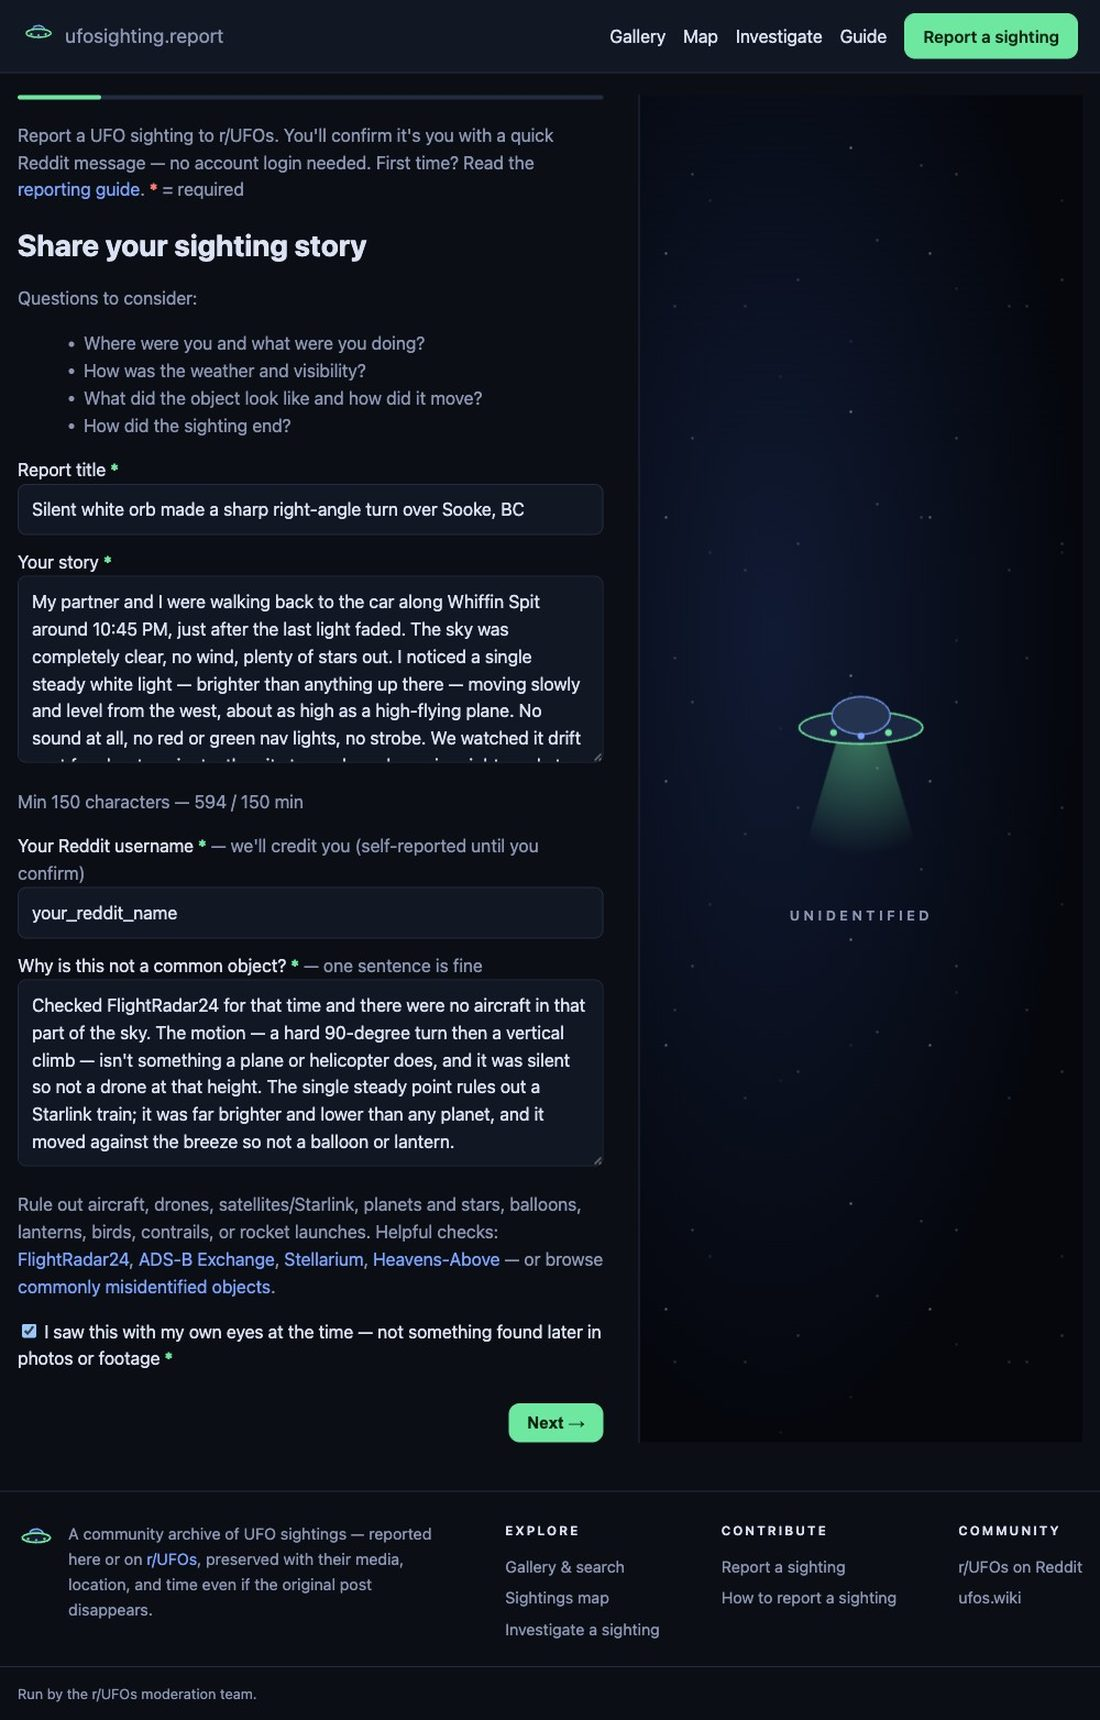
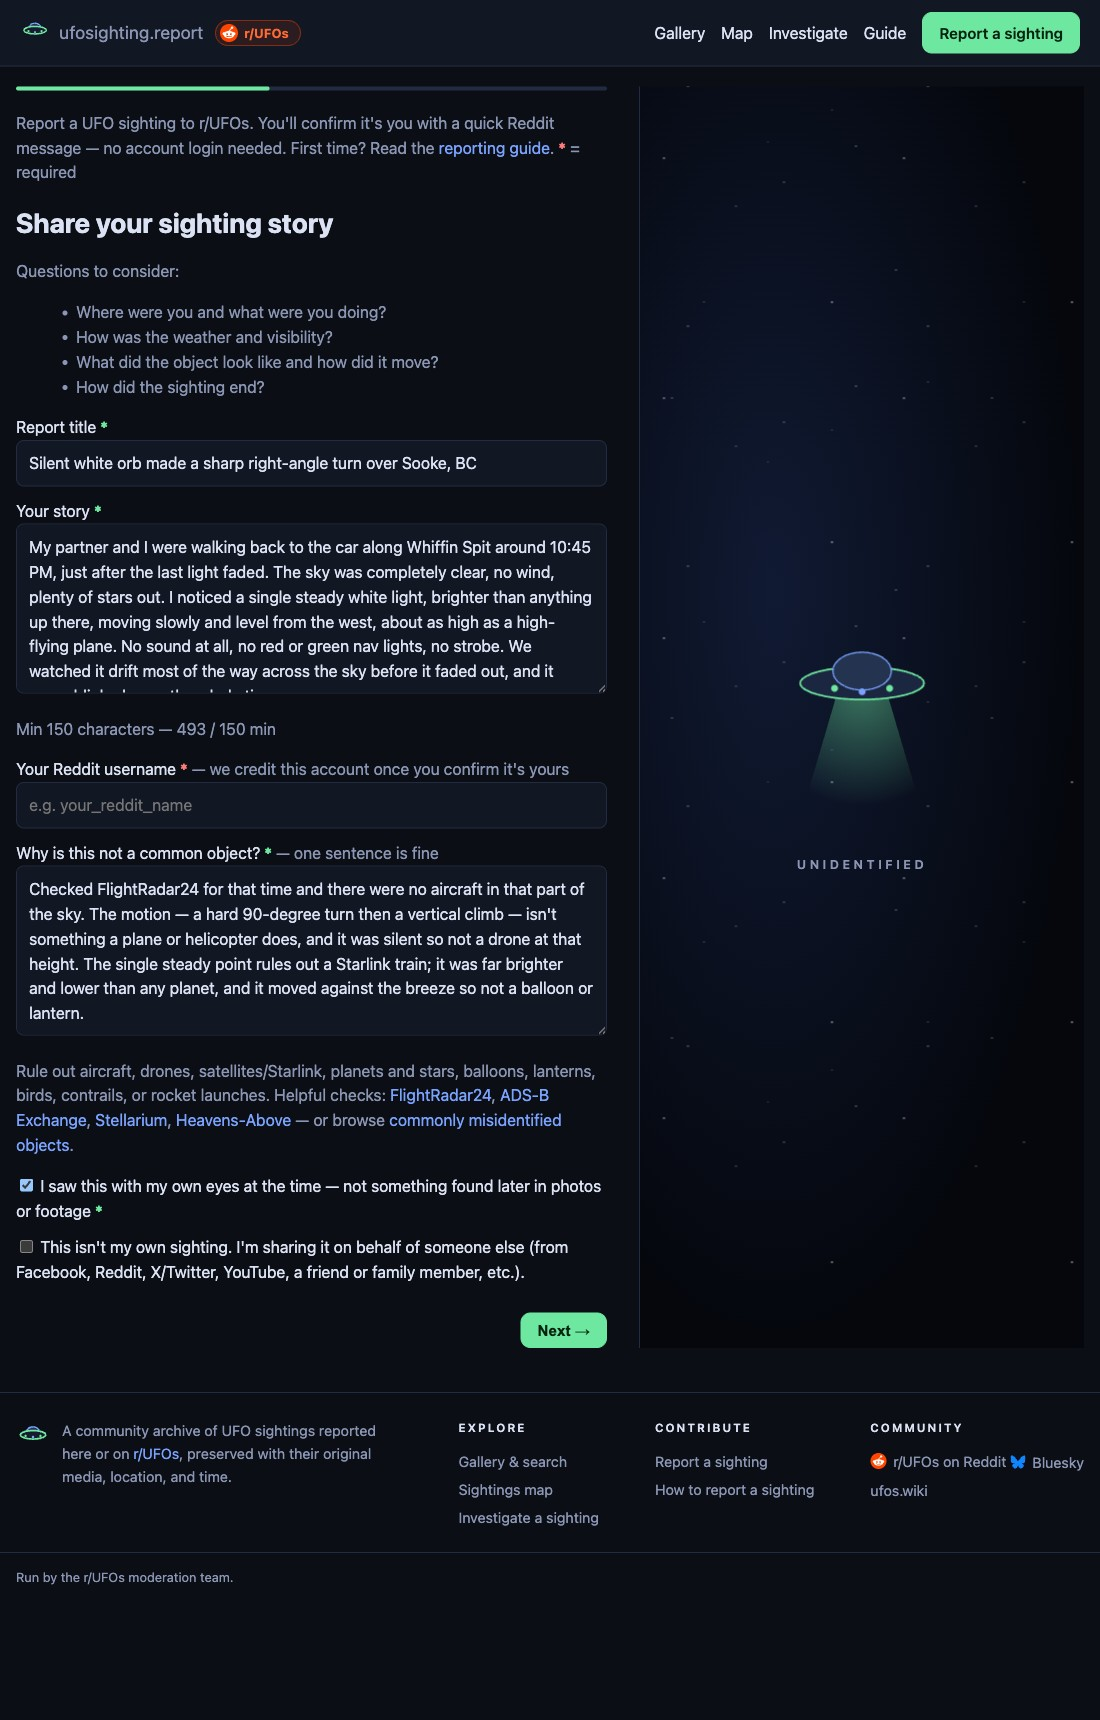
guide: shared-sighting guidance, drop the survives-deletion claim, refresh step 3 shot
- New "Sharing a sighting that isn't your own" guide section: get permission
  first, link the original source, and how the post is labelled.
- Footer claimed sightings are "preserved... even if the original post
  disappears", which the deletion-compliance change made false (and which
  advertised keeping deleted content). Reworded to the original-media pitch.
- Regenerate static/img/guide/step3.jpg (same 1100x1720 framing): the Jul-14
  shot predates the shared-sighting checkbox and the reworded username hint.

diff --git a/app/templates/guide.html b/app/templates/guide.html
@@ -240,6 +240,26 @@
   </section>
 
   <section class="guide-section">
+    <h2>Sharing a sighting that isn't your own</h2>
+    <p>Found compelling footage on Facebook, X, YouTube, or Reddit, or reporting for a
+       friend or family member? You can still submit it. On the story step, tick
+       <strong>&ldquo;This isn't my own sighting&rdquo;</strong> and tell us where it came from.</p>
+    <ul class="guide-list">
+      <li><strong>Get their permission first.</strong> Only share someone else's sighting if
+          they're happy for it to be posted on their behalf. It's their footage and their story,
+          and that matters to the whole community.</li>
+      <li><strong>Link the original.</strong> Paste a direct link to the source (the X post,
+          YouTube video, Facebook post, and so on) so the original reporter gets credit and
+          others can trace it back.</li>
+      <li><strong>It's labelled honestly.</strong> The Reddit post and its pinned details comment
+          will clearly say the sighting was shared by you, that it isn't your own, and show the
+          source you gave. We never present second-hand footage as a first-hand account.</li>
+    </ul>
+    <p class="muted">Saw it yourself? Leave that box unticked and confirm you witnessed it
+       first-hand — that's the default.</p>
+  </section>
+
+  <section class="guide-section">
     <h2>After you submit: confirm it's you</h2>
     <p>Submitting doesn't post anything yet. You'll land on this page:</p>
     <img class="guide-shot" src="/static/img/guide/inbox.jpg?v={{ static_v }}"

diff --git a/app/templates/base.html b/app/templates/base.html
@@ -81,9 +81,9 @@
         <circle cx="16" cy="15" r="1.1" fill="#7aa2ff"/>
         <circle cx="23" cy="14" r="1.1" fill="#6ee7a0"/>
       </svg>
-      <p>A community archive of UFO sightings — reported here or on
+      <p>A community archive of UFO sightings reported here or on
          <a href="https://www.reddit.com/r/UFOs/">r/UFOs</a>, preserved with their
-         media, location, and time even if the original post disappears.</p>
+         original media, location, and time.</p>
     </div>
     <div class="footer-links">
       <div>